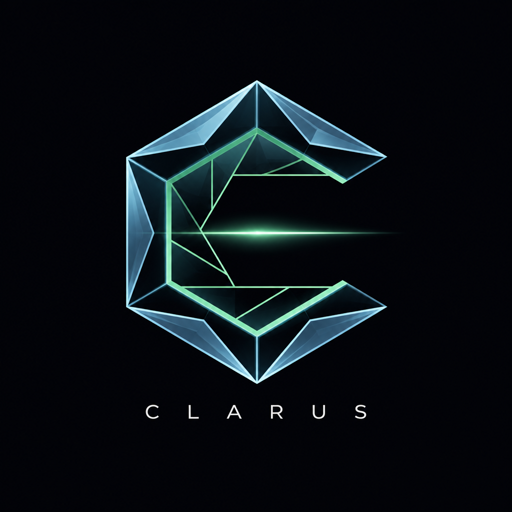
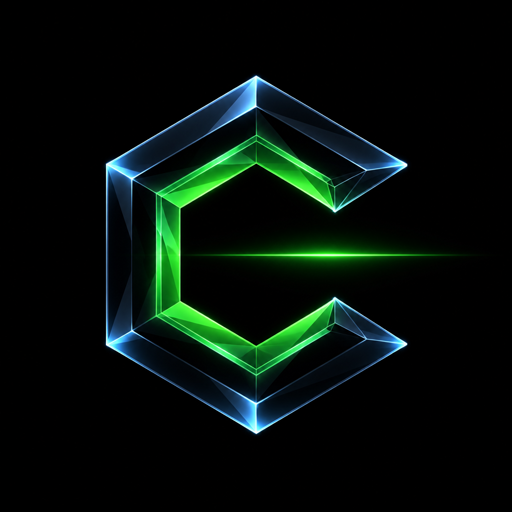
Use a text-free Clarus mark and drop the lockup slogan
The logo is the crystalline C only. No tagline is baked into the artwork.

diff --git a/src/components/Dashboard.tsx b/src/components/Dashboard.tsx
@@ -111,16 +111,21 @@ export function Dashboard() {
       <header className="mx-auto flex max-w-7xl flex-col gap-4 border-b border-[var(--line)] pb-4 md:flex-row md:items-end md:justify-between">
         <div className="flex items-center gap-4">
           <img
-            src="/clarus-lockup.png"
+            src="/clarus-mark.png"
             alt="Clarus"
-            width={420}
-            height={112}
-            className="h-24 w-auto max-w-[min(100%,420px)] rounded-2xl border border-[var(--line)] bg-black object-contain"
+            width={72}
+            height={72}
+            className="h-[72px] w-[72px] rounded-2xl border border-[var(--line)] bg-black object-cover"
           />
-          <p className="max-w-sm text-sm text-[#8a93a3]">
-            On-chain clarity agent. Four-layer firewall. One-click wallet payload.
-            Private keys never enter this process.
-          </p>
+          <div>
+            <h1 className="font-[var(--font-display)] text-4xl font-extrabold tracking-[0.18em] md:text-5xl">
+              CLARUS
+            </h1>
+            <p className="mt-2 max-w-xl text-sm text-[#8a93a3]">
+              Four-layer on-chain firewall. One-click wallet payload.
+              Private keys never enter this process.
+            </p>
+          </div>
         </div>
         <div className="flex flex-wrap gap-2 text-[11px]">
           <Stat label="INGEST" value={String(board.health.ingestions)} />

diff --git a/README.md b/README.md
@@ -1,10 +1,10 @@
 <p align="center">
-  <img src="public/clarus-lockup.png" alt="Clarus — on-chain clarity" width="520" />
+  <img src="public/clarus-mark.png" alt="Clarus" width="180" />
 </p>
 
 # Clarus
 
-On-chain clarity agent for the Binance Agent / Workflow contest.
+Event-driven researcher and on-chain risk firewall for the Binance Agent / Workflow contest.
 
 Clarus does **not** trade. It watches high-velocity Solana launches, runs a strict six-gate pipeline, and — only if every gate passes — emits a Jupiter / Binance Web3 deep link. The operator signs in their own wallet (FaceID, passcode, hardware). No private keys, seed phrases, or broadcast authority ever enter this process.
 
@@ -54,8 +54,7 @@ Optional env (see `.env.example`):
 
 | Asset | Path |
 | --- | --- |
-| Mark | `public/clarus-mark.png` |
-| Lockup | `public/clarus-lockup.png` |
+| Logo (mark only) | `public/clarus-mark.png` |
 | App icon | `src/app/icon.png` |
 
 ## Stack
